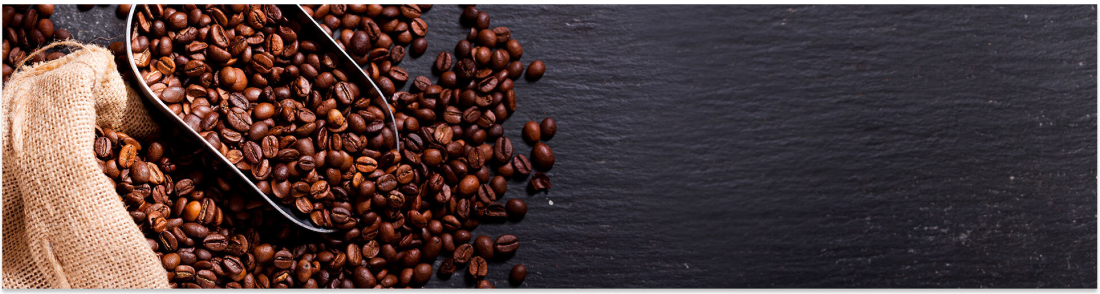
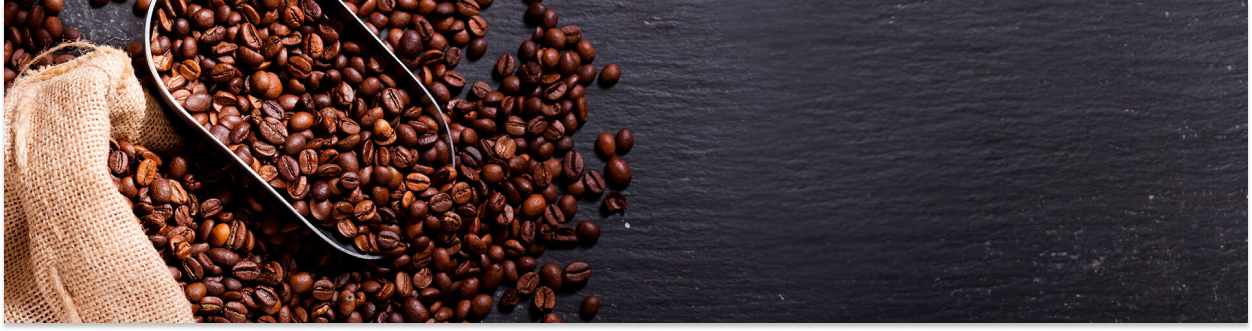
fetch

diff --git a/src/components/CafeList.js b/src/components/CafeList.js
@@ -1,91 +1,30 @@
-import { useState } from "react";
+import { useState, useEffect } from "react";
 // import CafeDetail from "./CafeDetail";
 import "./styles/CafeList.css";
 import { Col, Row } from 'react-bootstrap';
 import CafeDetail from "./CafeDetail";
 
-function CafeList() {
-    // const [cafes, setCafes] = useState([]);
-    // useEffect(()=>{
-    //     //const URL = "https://my.api.mockaroo.com/Cafes.json?key=4e0fca60";
-    //     fetch(URL).then(data => data.json()).then(data => {
-    //             setCafes(data);
-    //     })
-    // }, []);
 
-    const [cafes] = useState([
-        {
-          id: 1,
-          nombre: "Café Especial para tí",
-          tipo: "Blend",
-          region: "Angelópolis, Antioquia",
-          notas: "Panela, Durazno, Caramelo",
-          fecha_cultivo: "2023-01-18",
-          altura: 1920,
-          imagen:
-            "https://github.com/Uniandes-isis2603/recursos-isis2603/blob/master/images/202310/p2_v1/cafe-especial-para-ti-cafe-colombiano_720x.png?raw=true",
-        },
-        {
-          id: 2,
-          nombre: "Café Especial Navegante",
-          tipo: "Café de Origen",
-          region: "Guatapé, Antioquia",
-          notas: "Cítrico, Naranja, Cacao",
-          fecha_cultivo: "2023-02-10",
-          altura: 1800,
-          imagen:
-            "https://github.com/Uniandes-isis2603/recursos-isis2603/blob/master/images/202310/p2_v1/cafe-especial-navegante-cafe-colombiano-1_720x.png?raw=true",
-        },
-        {
-          id: 3,
-          nombre: "Café Especial El Poeta",
-          tipo: "Blend",
-          region: "Gómez Plata, Antioquia",
-          notas: "Notas Dulces, Vino y Frutos Rojos",
-          fecha_cultivo: "2023-03-11",
-          altura: 1800,
-          imagen:
-            "https://github.com/Uniandes-isis2603/recursos-isis2603/blob/master/images/202310/p2_v1/cafe-especial-poeta-cafe-colombiano_720x.png?raw=true",
-        },
-        {
-          id: 4,
-          nombre: "Café Especial Valentina",
-          tipo: "Café de Origen",
-          region: "Fredonia, Antioquia",
-          notas: "Chocolate, Cáscara de limón, Nuez",
-          altura: 1700,
-          imagen:
-            "https://github.com/Uniandes-isis2603/recursos-isis2603/blob/master/images/202310/p2_v1/cafe-especial-valentina-cafe-colombiano_1_720x.png?raw=true",
-        },
-        {
-          id: 5,
-          nombre: "Café Especial Sombrero Vueltiao",
-          tipo: "Café de Origen",
-          region: "Amagá, Antioquia",
-          notas: "Chocolate, Frutos secos, Frutos rojos, Caña de azúcar",
-          fecha_cultivo: "2023-04-12",
-          altura: 1450,
-          imagen:
-            "https://github.com/Uniandes-isis2603/recursos-isis2603/blob/master/images/202310/p2_v1/cafe-especal-sombrero-vueltiao-2-cafe-colombiano-f_720x.png?raw=true",
-        },
-        {
-          id: 6,
-          nombre: "Café Especial La Guacamaya",
-          tipo: "Café de Origen",
-          region: "Amagá, Antioquia",
-          notas: "Chocolate, Frutos Secos, Frutos Rojos y Caña de Azúcar",
-          fecha_cultivo: "2023-05-13",
-          altura: 1450,
-          imagen:
-            "https://github.com/Uniandes-isis2603/recursos-isis2603/blob/master/images/202310/p2_v1/cafe-especial-guacamayo2-cafe-colombiano-f_720x.png?raw=true",
-        },
-      ]);
+function CafeList() {
+    const [cafes, setCafes] = useState([]);
+    useEffect(() => {
+      fetch("http://localhost:3001/cafes")
+          .then(response => response.json())
+          .then(data => {
+            setCafes(data);
+          })
+          .catch(error => {
+              console.error('Error fetching data:', error);
+          });
+  }, []);
+
 
 
     const [selectedCafe, setSelectedCafe] = useState(null);
+
     const handleCardClick = (cafe) => {
-        console.log(cafe);
-        setSelectedCafe(cafe);
+        console.log(cafe.id);
+        setSelectedCafe(cafe.id);
     };
 
 
@@ -93,9 +32,9 @@ function CafeList() {
         <>
         <br />
         <Row>
-        <Col md={7}> 
-            <table className="table">
-            <thead className="thead" >
+        <Col> 
+            <table className="table table-hover">
+            <thead className='table-dark' >
                 <tr>
                     <th scope="col">#</th>
                     <th scope="col">Nombre</th>
@@ -115,7 +54,7 @@ function CafeList() {
             </tbody>
       </table>
         </Col> 
-        <Col md={5}> 
+        <Col> 
             {selectedCafe && (
                     <CafeDetail cafe={selectedCafe} />
             )}   

diff --git a/src/components/CafeDetail.js b/src/components/CafeDetail.js
@@ -1,31 +1,36 @@
 import { Card } from 'react-bootstrap';
 import './styles/Cafe.css';
+import { useEffect, useState } from 'react';
 
 function CafeDetail(props) {
-    const { cafe } = props;
+    const id = props.cafe;
+    const [cafe, setCafe] = useState({});
 
-    if (!cafe) {
-        // Handle the case when no cafe is selected (optional)
-        return <div className="cafe-detail">Select a cafe to see details.</div>;
-    }
+    useEffect(() => {
+        fetch(`http://localhost:3001/cafes/${id}`)
+            .then(response => response.json())
+            .then(data => {
+                setCafe(data);
+            })
+            .catch(error => {
+                console.error('Error fetching data:', error);
+            });
+    }, [id]);
+    
 
     return (
         <>
-
-            <Card border="dark" style={{ width: '95%', backgroundColor:"rgba(224, 187, 187, 0.2)" }} className='cards'>
+            <Card border="dark" style={{ backgroundColor:"rgba(224, 187, 187, 0.2)" }} className='cards'>
             <Card.Body>
                 <Card.Title className='title'>{cafe.nombre}</Card.Title>
-                <Card.Text className='text'>{cafe.fecha_cultivo}</Card.Text>
-                <Card.Img  src={cafe.imagen} />
+                <Card.Subtitle className='text'>{cafe.fecha_cultivo}</Card.Subtitle>
+                <Card.Img  src={cafe.imagen} style={{height: "30%", width: "30%"}} />
                 <Card.Text className='notas'>Notas</Card.Text>
                 <Card.Text className='notas'>{cafe.notas}</Card.Text>
                 <Card.Title className='title'>Cultivado a una altura de {cafe.altura} msnm</Card.Title>
                 
             </Card.Body>
-            </Card>
-
-
-            
+            </Card>            
         </>
     );
 }

diff --git a/src/App.js b/src/App.js
@@ -9,8 +9,9 @@ import localeEsMessages from "./locale/es";
 import Login from "./components/Login";
 import Header from './components/Header';
 
-import { Container, Row } from "react-bootstrap";
 import CafeList from './components/CafeList';
+
+
 
 function idiomaNavegador() {
   const idiomasDisponibles = ['en', 'es', "es-ES"];
@@ -32,26 +33,16 @@ function App() {
       <IntlProvider locale={language} messages={message}>
         <div>
           <Header/>
-          <Container fluid className="container-reset">
-            <Row >
-                <Container className='hero'>
-                  <img src="https://images.ctfassets.net/zmu0ll2b1db8/6faYYwdbXsdCmWZGKLd42c/c2ceefafdafb2c2cff15f7d18f07e6e2/anastasiia-chepinska-lcfH0p6emhw-unsplash__1_.jpg" alt="hro" />
-                </Container>
-                  
-            </Row>
-
-          </Container>
           <BrowserRouter>
             <Routes>
               <Route path="/" element={<Login />} />
               <Route path="/cafeList" element={<CafeList />} />
-              {/* <Route path="/about" element={<App />} /> */}
             </Routes>
           </BrowserRouter>
           <br />
           <br />
           <br />
-          <footer className="blockquote-footer">
+          <footer className="">
             Contact us: +57 3102105253 - info@elaromamagico.com - @elaromamagico
           </footer>
 

diff --git a/src/components/Login.js b/src/components/Login.js
@@ -67,12 +67,12 @@ function Login() {
              <br />
              <Row>
                   <Form.Label className="formLabel">Nombre de usuario </Form.Label>
-                      <Form.Control className="form-control" type="user" placeholder="Correo electrónico"  onChange={handleUserChange} isInvalid={touched.user && !validationState.user}/>
+                      <Form.Control className="form-control" type="user"   onChange={handleUserChange} isInvalid={touched.user && !validationState.user}/>
              </Row>
                       <br />
              <Row>
                           <Form.Label className="formLabel">Contraseña </Form.Label>
-                          <Form.Control className="form-control" type="password" placeholder="Contraseña"  onChange={handlePasswordChange} isInvalid={touched.password && !validationState.password}/>
+                          <Form.Control className="form-control" type="password"   onChange={handlePasswordChange} isInvalid={touched.password && !validationState.password}/>
              </Row>
              <br />
              <Row>

diff --git a/src/components/Header.js b/src/components/Header.js
@@ -1,13 +1,17 @@
-import {Navbar } from 'react-bootstrap';
+import { Container, Row } from 'react-bootstrap';
 import './styles/Header.css';
+import hero from '../hero.png';
 
 function Header() {
     return (
-        <>
-          <Navbar className="bg-body-tertiary">
-              <Navbar.Brand className='brand' >El aroma magico</Navbar.Brand>
-          </Navbar>
-        </>
+        <Container fluid className="container-reset">
+          <h1 className='brand'>El aroma magico</h1>
+          <hr></hr>
+            <Row >
+                  <img src={hero} alt="hro" style={{height:"323px", width:"100%"}}/>
+            </Row>
+            <hr></hr>
+          </Container>
     );
 }
 

diff --git a/src/components/styles/Header.css b/src/components/styles/Header.css
@@ -1,4 +1,8 @@
 .brand {
     font-family: 'Indie Flower', cursive;
-    
+    text-align: left;
   }
+
+*{
+  margin: 10px;
+}
